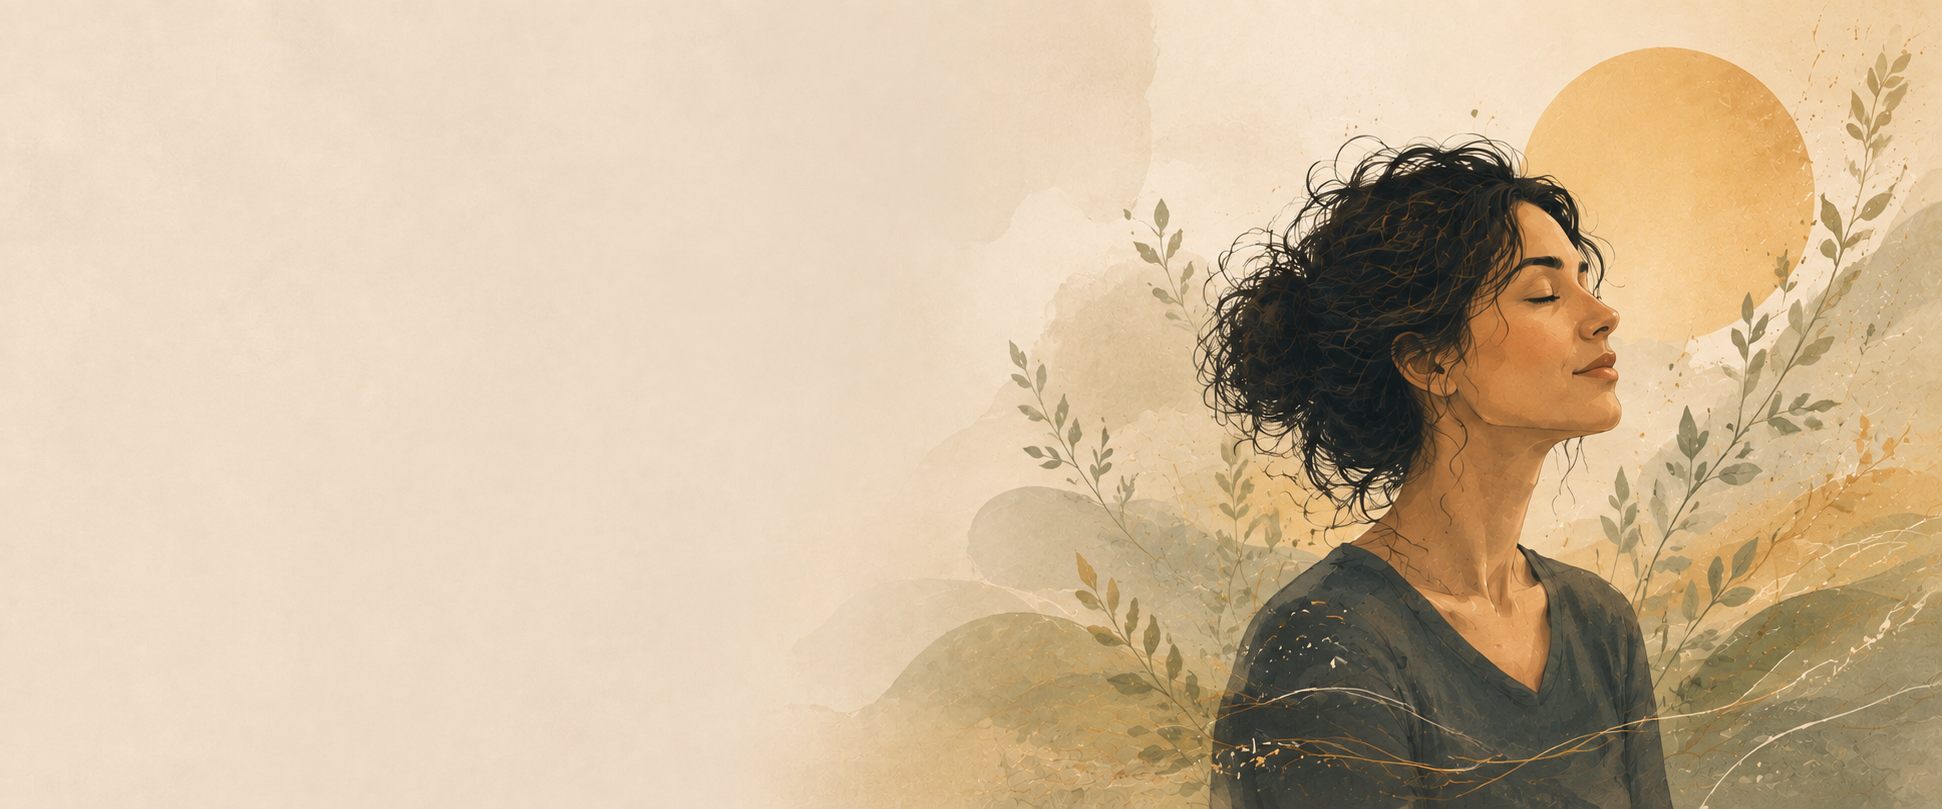
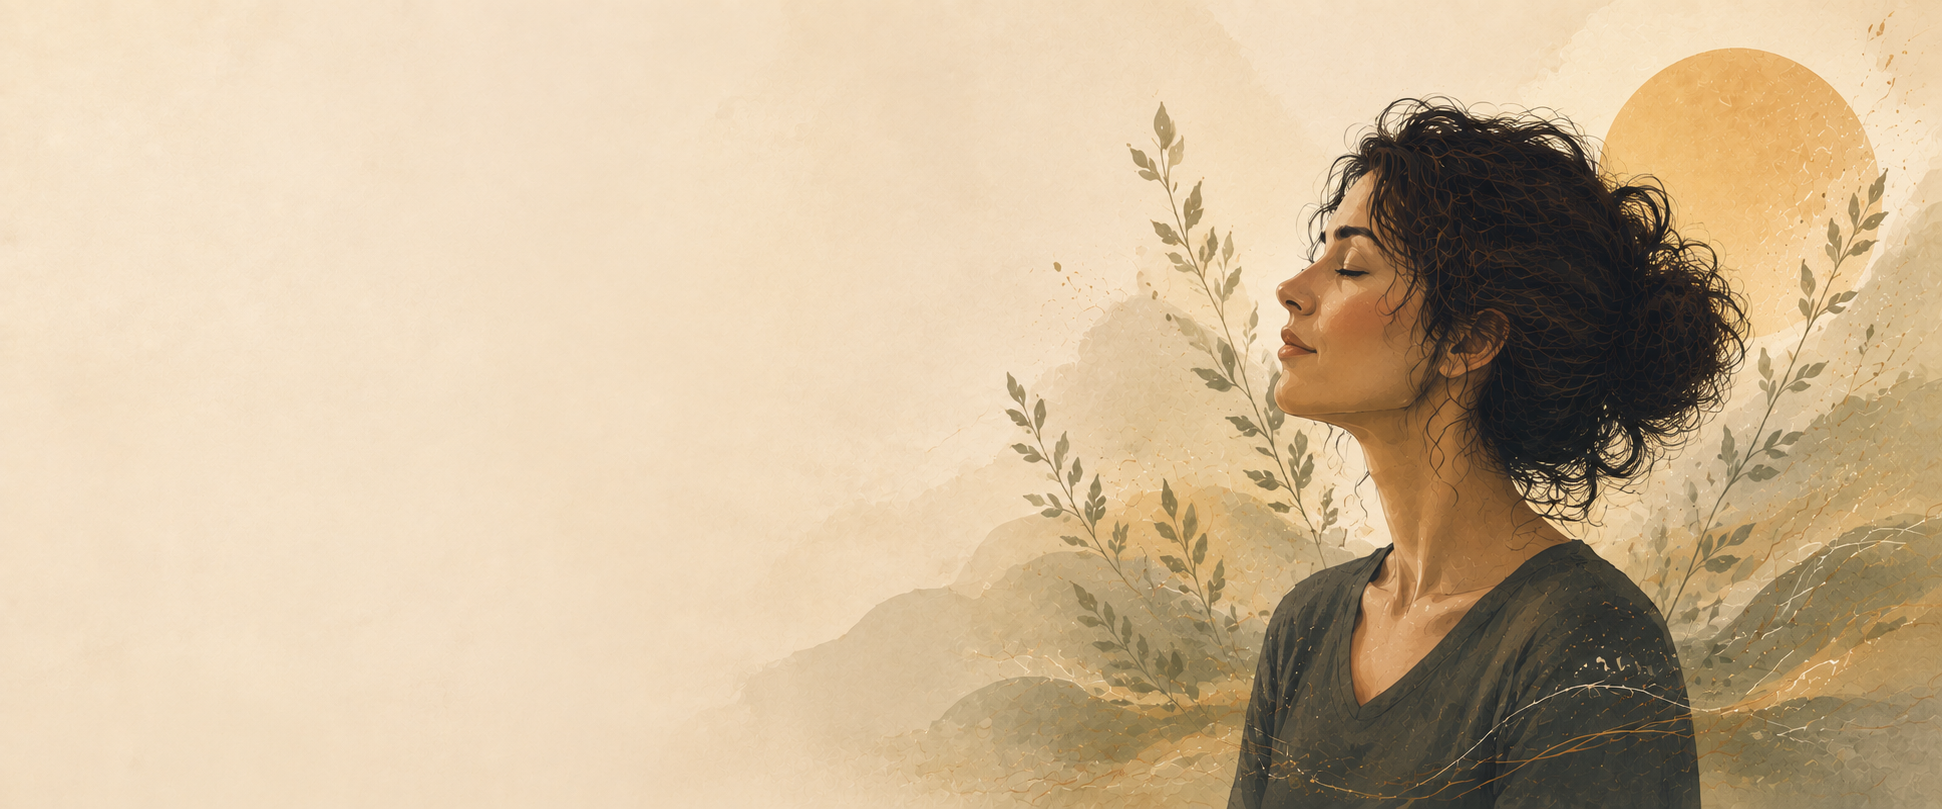
Add files via upload

Changed region(s): [[0.3708, 0.0309, 1.0, 1.0], [0.4634, 0.9889, 0.4943, 1.0]]

diff --git a/index.html b/index.html
@@ -28,11 +28,19 @@
     background: var(--color-accent-700); border-color: var(--color-accent-700); color: #fdfaf4; }
   .btn-cta:hover { background: var(--color-accent-800); border-color: var(--color-accent-800); color: #fdfaf4; }
   .hero-img { position: absolute; inset: 0; width: 100%; height: 100%; object-fit: cover; z-index: 0; }
+  #hero { aspect-ratio: 1942 / 809; display: flex; align-items: center; }
+  #hero > div { width: 100%; }
   .plate img { display: block; width: 100%; height: auto; }
+
+  @media (max-width: 1100px) {
+    #hero { aspect-ratio: auto; min-height: 0 !important; flex-direction: column; align-items: stretch;
+      padding: 64px 24px 0 !important; }
+    #hero > div { order: 1; min-height: 0 !important; }
+    #hero .hero-img { position: static; order: 2; width: 100%; height: 300px; margin-top: 48px; object-position: 72% center; }
+  }
 
   @media (max-width: 900px) {
     .nav { flex-wrap: wrap; row-gap: 8px; }
-    #hero { padding: 64px 24px !important; min-height: 520px !important; }
     #hero h1 { font-size: 42px !important; }
     section { padding: 48px 24px !important; }
     .cols-3, .cols-2, .split { grid-template-columns: 1fr !important; gap: 32px !important; }
@@ -41,19 +49,69 @@
     #gestalt h2 { width: auto !important; height: auto !important; }
     footer { padding: 24px !important; }
   }
+
+  /* — telefon — */
+  .nav-burger, .nav-panel { display: none; }
+  .hero-img { object-position: 100% center; }
+  @media (max-width: 768px) {
+    .nav { flex-wrap: nowrap; position: relative; }
+    .nav-links { display: none !important; }
+    .nav-burger { display: inline-flex !important; align-items: center; justify-content: center;
+      width: 46px; height: 46px; margin-right: -10px; background: none; border: 0; cursor: pointer; color: #2c3444; }
+    .nav-panel { position: absolute; top: 100%; left: 0; right: 0; background: #fdfaf4;
+      border-bottom: 1px solid var(--color-divider); padding: 8px 22px 22px; gap: 2px; }
+    .nav-panel[data-open="true"] { display: grid !important; }
+    .nav-panel a { padding: 13px 0; font-size: 18px; text-decoration: none; border-bottom: 1px solid var(--color-divider); }
+    .nav-panel a:last-child { border-bottom: 0; color: var(--color-accent-700); }
+    #hero { padding: 56px 22px 0 !important; min-height: 0 !important; }
+    #hero .hero-img { height: 230px; margin-top: 36px; }
+    #hero h1 { font-size: 38px !important; max-width: none !important; }
+    #hero h1 span { display: inline !important; }
+    #hero .btn-cta { width: 100%; }
+    #hero > div:last-child > div:last-child { width: 100%; }
+    section { padding: 48px 22px !important; gap: 34px !important; }
+    section h2 { font-size: 30px !important; }
+    section h3 { font-size: 22px !important; }
+    .cols-3 > .card { padding: 22px !important; border-left: 1px solid var(--color-divider) !important; }
+    table.table { display: block; }
+    table.table thead { display: none; }
+    table.table tbody, table.table tr, table.table td { display: block; width: auto; }
+    table.table tr { padding: 14px 0; border-bottom: 1px solid var(--color-divider); }
+    table.table td { border: 0 !important; padding: 2px 0 !important; text-align: left !important; }
+    table.table td:first-child { font-family: Georgia, "Times New Roman", serif; font-size: 20px; color: #2c3444; }
+    details { border-bottom: 0 !important; }
+    details:last-child { border-bottom: 1px solid var(--color-divider) !important; }
+    footer { padding: 24px 22px 30px !important; }
+  }
 </style>
 </head>
 <body>
 
 <nav class="nav" style="position: sticky; top: 0; background: #fdfaf4; z-index: 5;">
   <span class="nav-brand" style="font-size: 16px; font-weight: 400;">Nikolina Đurović</span>
-  <a href="#prvi-korak">Prvi korak</a>
-  <a href="#gestalt">Geštalt</a>
-  <a href="#formati">Formati i cene</a>
-  <a href="#o-meni">O meni</a>
+  <div class="nav-links" style="display: flex; align-items: center; gap: var(--space-4);">
+    <a href="#prvi-korak">Prvi korak</a>
+    <a href="#gestalt">Geštalt</a>
+    <a href="#formati">Formati i cene</a>
+    <a href="#o-meni">O meni</a>
+  </div>
+  <button class="nav-burger" id="burger" type="button" aria-label="Meni" aria-expanded="false" aria-controls="nav-panel">
+    <span style="display: grid; gap: 5px; width: 22px;">
+      <span style="display: block; height: 1.5px; background: currentColor;"></span>
+      <span style="display: block; height: 1.5px; background: currentColor;"></span>
+      <span style="display: block; height: 1.5px; background: currentColor;"></span>
+    </span>
+  </button>
+  <div class="nav-panel" id="nav-panel" data-open="false">
+    <a href="#prvi-korak">Prvi korak</a>
+    <a href="#gestalt">Geštalt</a>
+    <a href="#formati">Formati i cene</a>
+    <a href="#o-meni">O meni</a>
+    <a href="#kontakt">Zakaži prvi razgovor</a>
+  </div>
 </nav>
 
-<div id="hero" style="position: relative; padding: 96px 72px; min-height: 680px; text-align: left; border-bottom: 1px solid var(--color-divider); overflow: hidden;">
+<div id="hero" style="position: relative; padding: 96px 72px; min-height: 600px; text-align: left; border-bottom: 1px solid var(--color-divider); overflow: hidden;">
   <img class="hero-img" src="images/hero.png" alt="Žena zatvorenih očiju okrenuta ka svetlu, ilustracija u toplim bež tonovima">
   <div style="position: relative; z-index: 2; min-height: 460px; display: flex; flex-direction: column; align-items: flex-start; justify-content: center; gap: 8px;">
     <p style="font-size: 16px; letter-spacing: 0.1em; text-transform: uppercase; color: var(--color-accent-700); margin: 0 0 26px;">Geštalt psihoterapija · uživo i onlajn</p>
@@ -249,6 +307,12 @@
 </footer>
 
 <script>
+  (function () {
+    var b = document.getElementById('burger'), p = document.getElementById('nav-panel');
+    function set(open) { p.dataset.open = open ? 'true' : 'false'; b.setAttribute('aria-expanded', open ? 'true' : 'false'); }
+    b.addEventListener('click', function () { set(p.dataset.open !== 'true'); });
+    p.addEventListener('click', function (e) { if (e.target.tagName === 'A') set(false); });
+  })();
   document.getElementById('kontakt-forma').addEventListener('submit', function (e) {
     e.preventDefault();
     var btn = e.currentTarget.querySelector('button[type=submit]');
